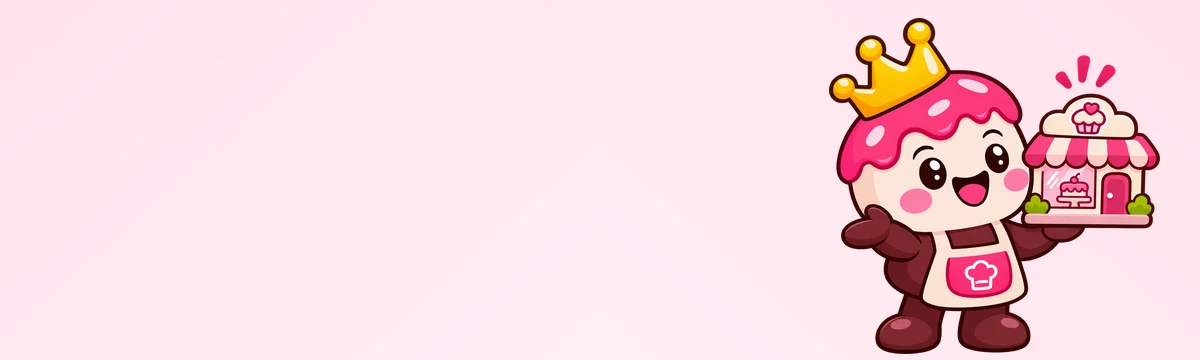
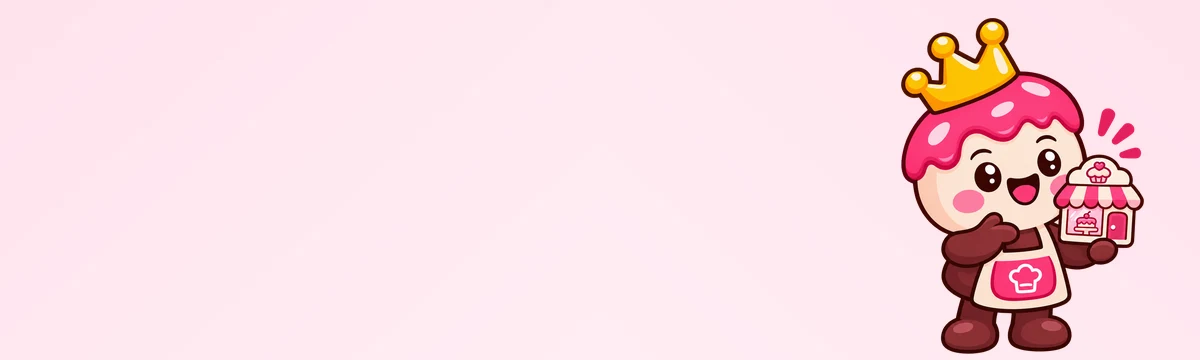
6.129: Primeiros passos: Doo mais estreito no passo Sobre a confeitaria
Claude-Session: https://claude.ai/code/session_01Tr1mYrTU9rTShFnbh3vuaV

Changed region(s): [[0.6783, 0.0306, 0.9867, 1.0]]

diff --git a/src/lib/versao.ts b/src/lib/versao.ts
@@ -2,4 +2,4 @@
  * Versão do app — aparece no menu da foto e vai junto nas sugestões e nos problemas relatados.
  * A cada atualização publicada, sobe 1 no número depois do ponto: 2.0 → 2.1 → 2.2 …
  */
-export const VERSAO_APP = "6.128";
+export const VERSAO_APP = "6.129";
